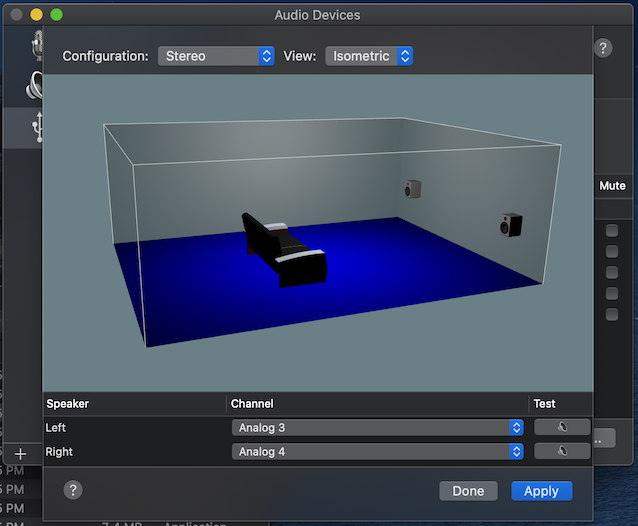
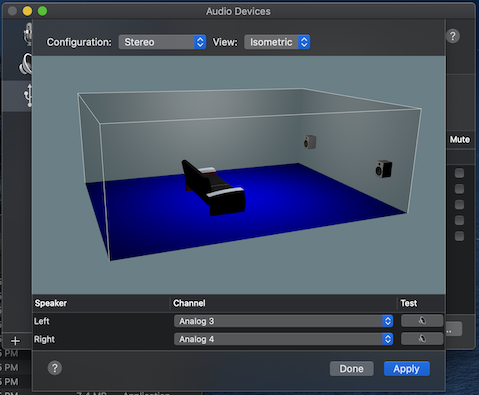
Finalize post on USB 3-4

diff --git a/_posts/2020-10-29-mackie-usb-3-4-mac-book-pro.md b/_posts/2020-10-29-mackie-usb-3-4-mac-book-pro.md
@@ -4,11 +4,11 @@ title:  "Where are Channels 3-4 from Mackie ProFX10v3 mixer on Mac Book Pro???"
 categories: mackie sound usb macbookpro
 ---
 On the [Mackie ProFXv3 10 channel](https://mackie.com/products/profxv3-professional-effects-mixers-usb)
-mixer, you have 2x4 USB I/O available: 2 output channels and 4 input
-channels. On a Mac Book Pro, those channels are natively available
-without a custom driver. Finding the input channels 3-4, which "should"
-appear as "speaker" outputs on the Mac, is not quite as straightforward
-as one might think.
+mixer, you have 2x4 USB I/O available: 2 output channels and
+4 input channels. On a Mac Book Pro, those channels are
+natively available without a custom driver. Finding the return channels
+3-4, which "should" appear as "speaker" outputs on the Mac, is not quite
+as straightforward as one might think.
 
 ## Mackie ProFX10v3 10-Channel Mixer
 
@@ -18,7 +18,7 @@ you'll want to read my post on the
 
 The relevant feature for today of the Mackie mixer board is the USB 2x4 I/O
 monitoring capability.  This 2x4 nomenclature refers to the number of channels
-**sent** (2) and the number of channels **received** (4), from the perspective
+**sent** (2) and the number of channels **returned** (4), from the perspective
 of the mixer.
 
 From the perspective of the Digital Audio Workstation (DAW), also known as
@@ -27,22 +27,101 @@ and you'll send 4 channels of output as speaker options.  On a Windows DAW,
 you'll need a driver to make all this happen but support for the mixer is
 available natively on Mac OS X.
 
-## Hello computer?
+## Where is my sound?
 
 With the USB connection in place and the mixer powered on, the situation on the
-Mac Book Pro looks promising.  The "microphone" (channels 1-2 sent) is easily
+Mac Book Pro looks promising.  The "microphone" (send channels 1-2) is easily
 identifiable:
 
-![MacBook Pro microphone options](/images/mackie-microphone-image.png){: .align-center}
+![MacBook Pro microphone options](/images/Sound_Preferences_Input.PNG){: .align-center}
 
-The "speaker" options (channels 1-2, 3-4) however are a bit more vague:
+The "speaker" options (return channels 1-2, 3-4) however are a bit more vague:
 
-![MacBook Pro speaker options](/images/mackie-speaker-image.png){: .align-center}
+![MacBook Pro speaker options](/images/Sound_Preferences_Output.PNG){: .align-center}
 
 If I expect two pairs of channels, why do I only have one option? Shouldn't
 I have "ProFX 1-2" and "ProFX 3-4"? Since it is only "ProFX", which two channels
-are they because channels 1-2 can only be sent to the control room and headphone
-outputs. If you want audio mixed with your other channels (via mixer channels 9/10),
-your audio must arrive on USB channels 3-4.
+are they?  The channel selection matters greatly because channels 1-2 can only be
+heard on the control room and headphone outputs. If you want audio mixed with
+your other channels (via mixer channels 9/10), your audio must arrive on return
+channels 3-4.
 
-It doesn't take long
+It doesn't take long to realize that, by default, ProFX output translates to
+channels 1-2.[^1] So the question is, how do I send output to channels 3-4?
+
+## Audio MIDI Device
+
+The clue in solving this problem lies with the fact these channels are connected
+to a MIDI device.  Mac OS X has a dedicated application to configure the MIDI
+devices - "Audio MIDI Setup":
+
+![Mac OS X Midi Setup](/images/Audio_MIDI_Tool.PNG){: .align-center}
+
+As you can see in the image, with the output option selected, there are 4 analog
+channels and ... a "Configure Speakers" option. With the 2-channel "Stereo" option,
+we can select channels 3 and 4 for the left and right option:
+
+![Mac OS X Midi Setup](/images/Stereo_Isometric_LeftRight.PNG){: .align-center}
+
+Click apply and music starts appearing in mixer board channels 9/10 ... well,
+of course, that's only if the USB 3-4 button is down.
+
+## Why all the channels?
+
+You might be frustrated - and to be honest, I still am - that you can't send 4
+tracks natively in Mac OS X simultaneously via my "ProFX 1-2" ideas above.
+Or, that the mixer board only allows tracks 3-4 to be inserted into the main
+output mix while tracks 1-2 are sent to the control room or headphones.
+You might also think you should've got the next model up to get more features.
+
+The reality is - every ProFXv3 model operates the same way. The question is why?
+
+As with many technical products, the answer comes down to use cases.  USB 1-2
+are designed to assist with overdubbing tracks. Your primary tracks are recorded
+to the DAW and then in a second pass played back through USB 1-2.  In parallel,
+while you listen to the pre-recorded track via headphones, new audio mix from
+the overdub (second guitar part, for example) is recorded via the send channels
+1-2 on the DAW.  In short, USB returns 1-2 are really designed to help digitally
+record individual, multiple tracks that are synchronized.
+
+USB 3-4 serve a similar role but with an important distinction. You can play
+pre-recorded tracks as in the USB 1-2 use case.  However, those tracks are
+mixed into the main outputs along with your new audio. Typically, this is done
+for backing tracks in situations where, for example, you've pre-recorded the
+instruments and are singing live. This integrated mix could also be recorded
+by the DAW via send channels 1-2. Unlike the overdub scenario though, there
+is no separating the backing track from the new audio.
+
+## Read The Fine Manual
+
+The most amazing aspect of this post is why I wrote it. Mackie products have
+some great documentation with in-depth description of the circuit paths as
+well as some humor (rude solo lights, "Watch our dang videos", etc.).  But,
+details about this feature were surprisingly difficult to find. On page 7,
+we have this detail about the USB:
+
+![Mackie USB Page 7](/images/mackie-profxv3-usb-excerpt.png){: .align-center}
+
+In searching the Internet, many folks like myself stopped there, proceeded
+to seek collective wisdom, and generate a great deal of frustration trying
+to figure it out. What we failed to do was check the documentation for the
+USB 3-4 button itself (on page 15):
+
+![Mackie USB Page 15](/images/mackie-profxv3-usb-button.png){: .align-center}
+
+All the way down past Appendix A (Service Info) and Appendix B (Technical
+Info) - with all the board layouts and circuit paths - there's Appendix C
+with exactly how to make the changes described in this blog.  Which means,
+as you might suspect, the table of contents also itemizes out the appendix
+and its title "USB 3/4 Return Setup".
+
+And yes, I had the bulk of the post written and then stumbled upon Appendix
+C when looking for something else.
+
+## References
+
+- [Mackie ProFXv3 User Manual](https://mackie.com/sites/default/files/PRODUCT%20RESOURCES/MANUALS/Owners_Manuals/ProFXv3_OM.pdf)
+
+![Mackie USB 1-2 Blend](/images/mackie_line1-2_blend.png){: .align-center}
+
+[^1]: To test this, simply crank up some tunes on your Mac, select ProFX from the speaker icon in your system menu, plug in some headphones, and select the "TO PHONES/CR" button in the image shown above. 
